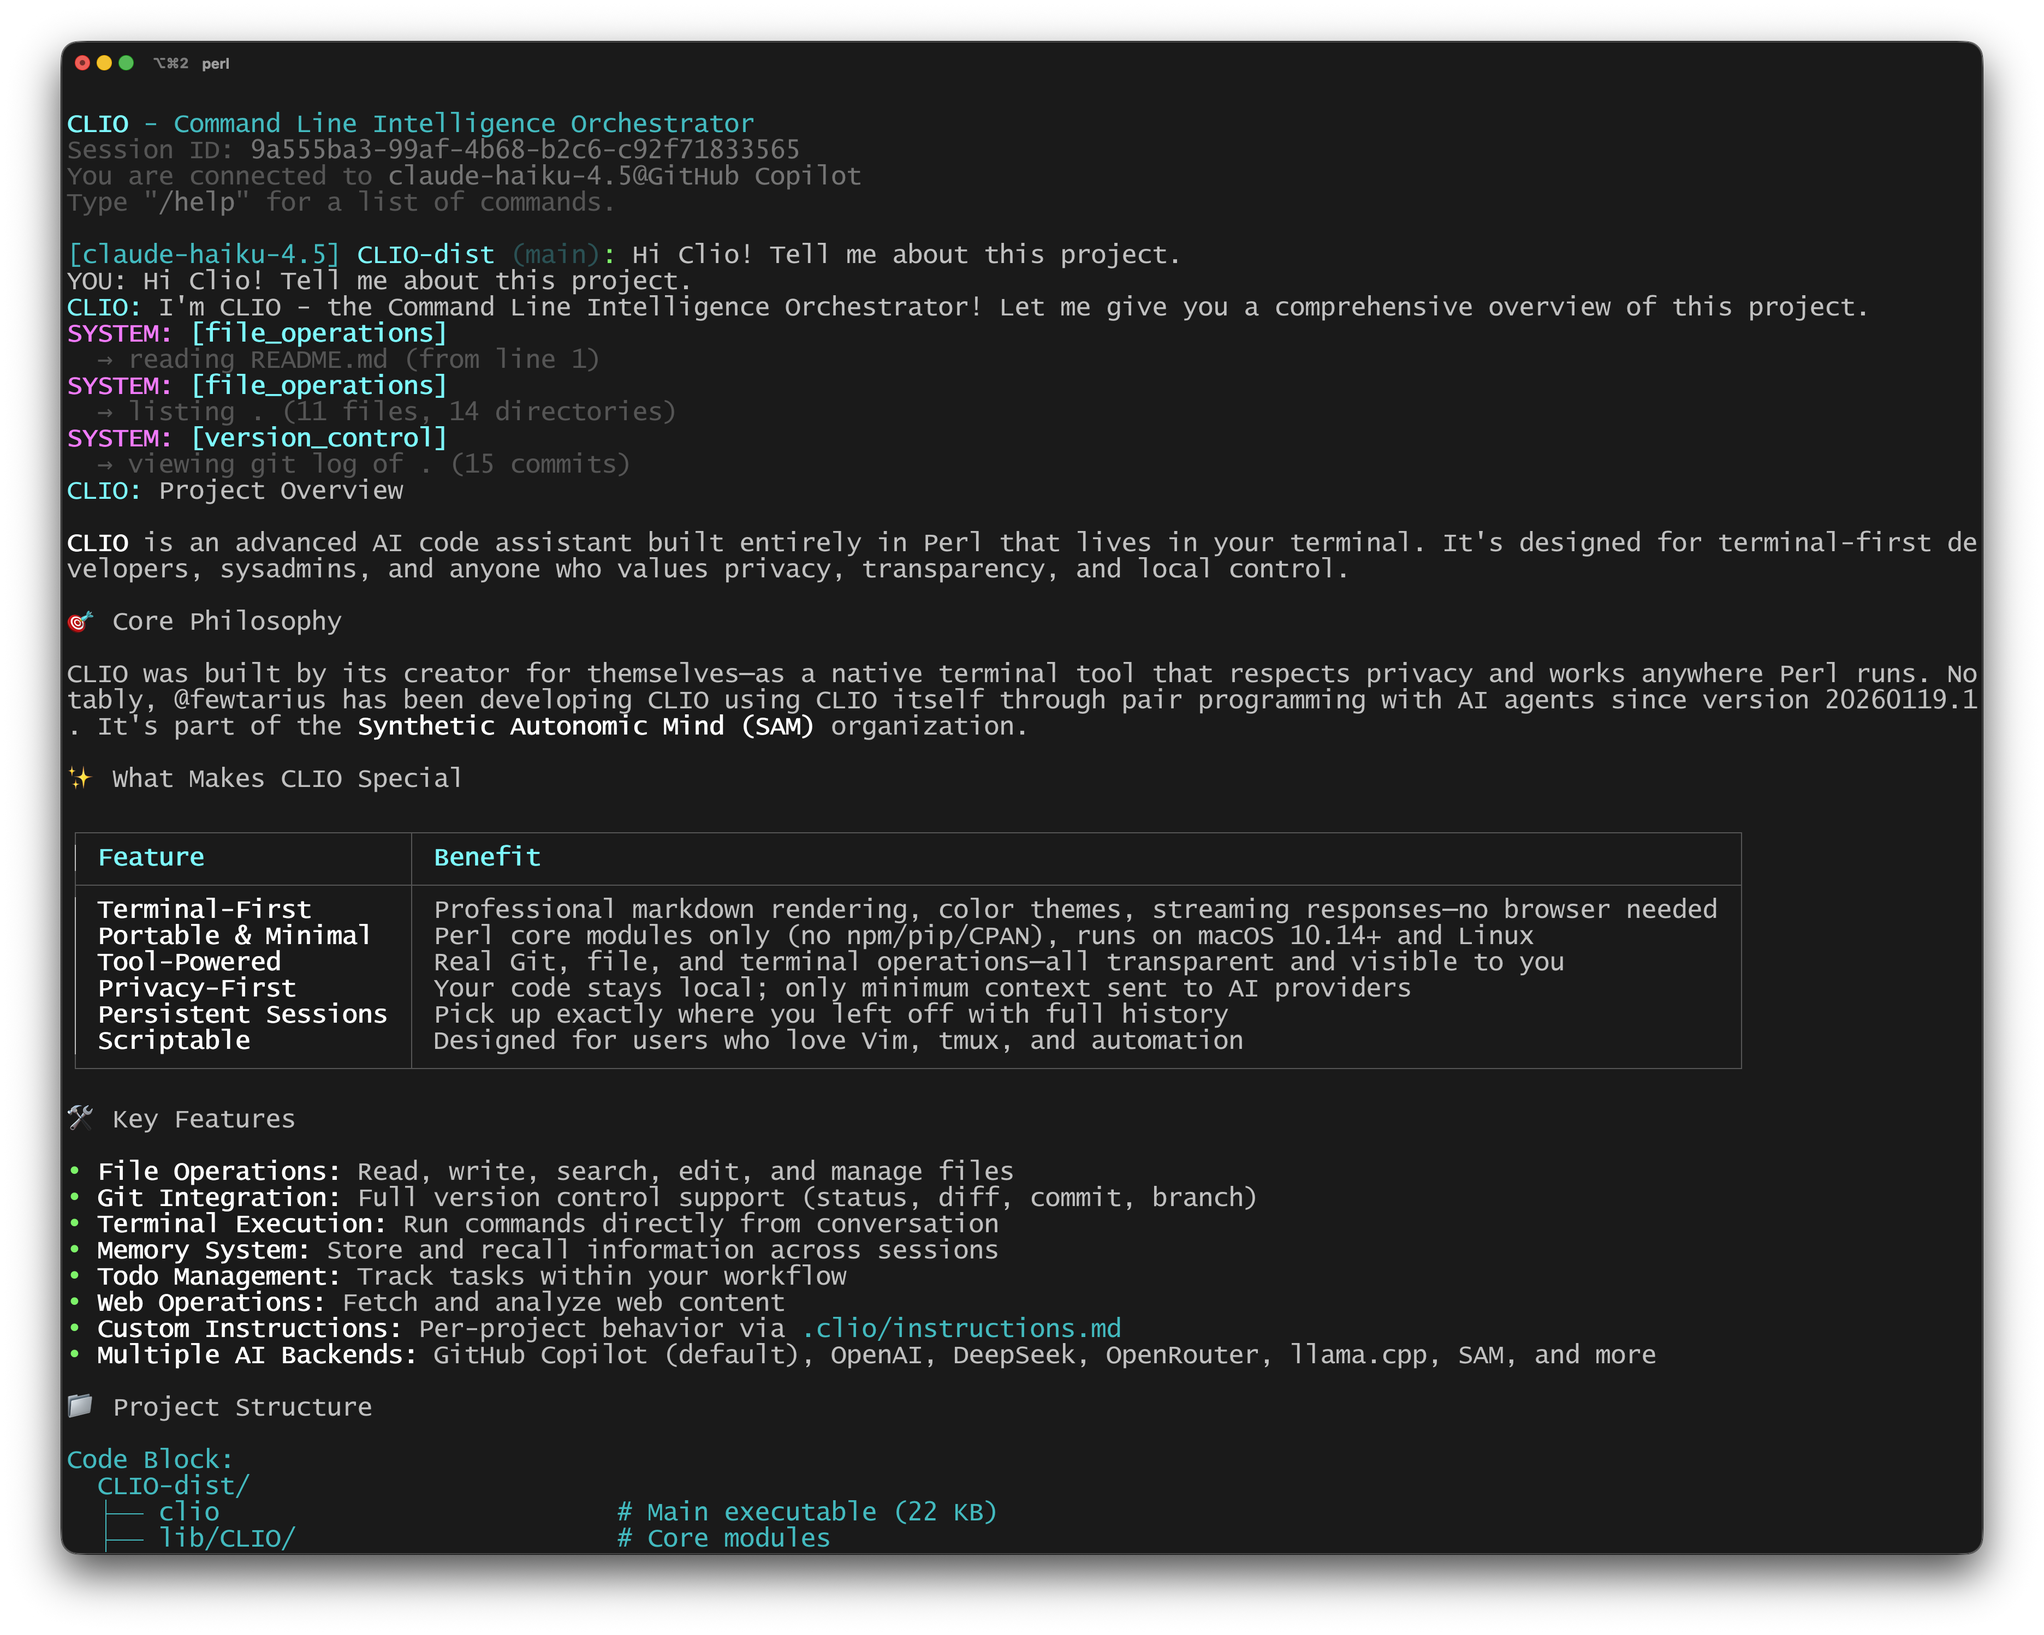
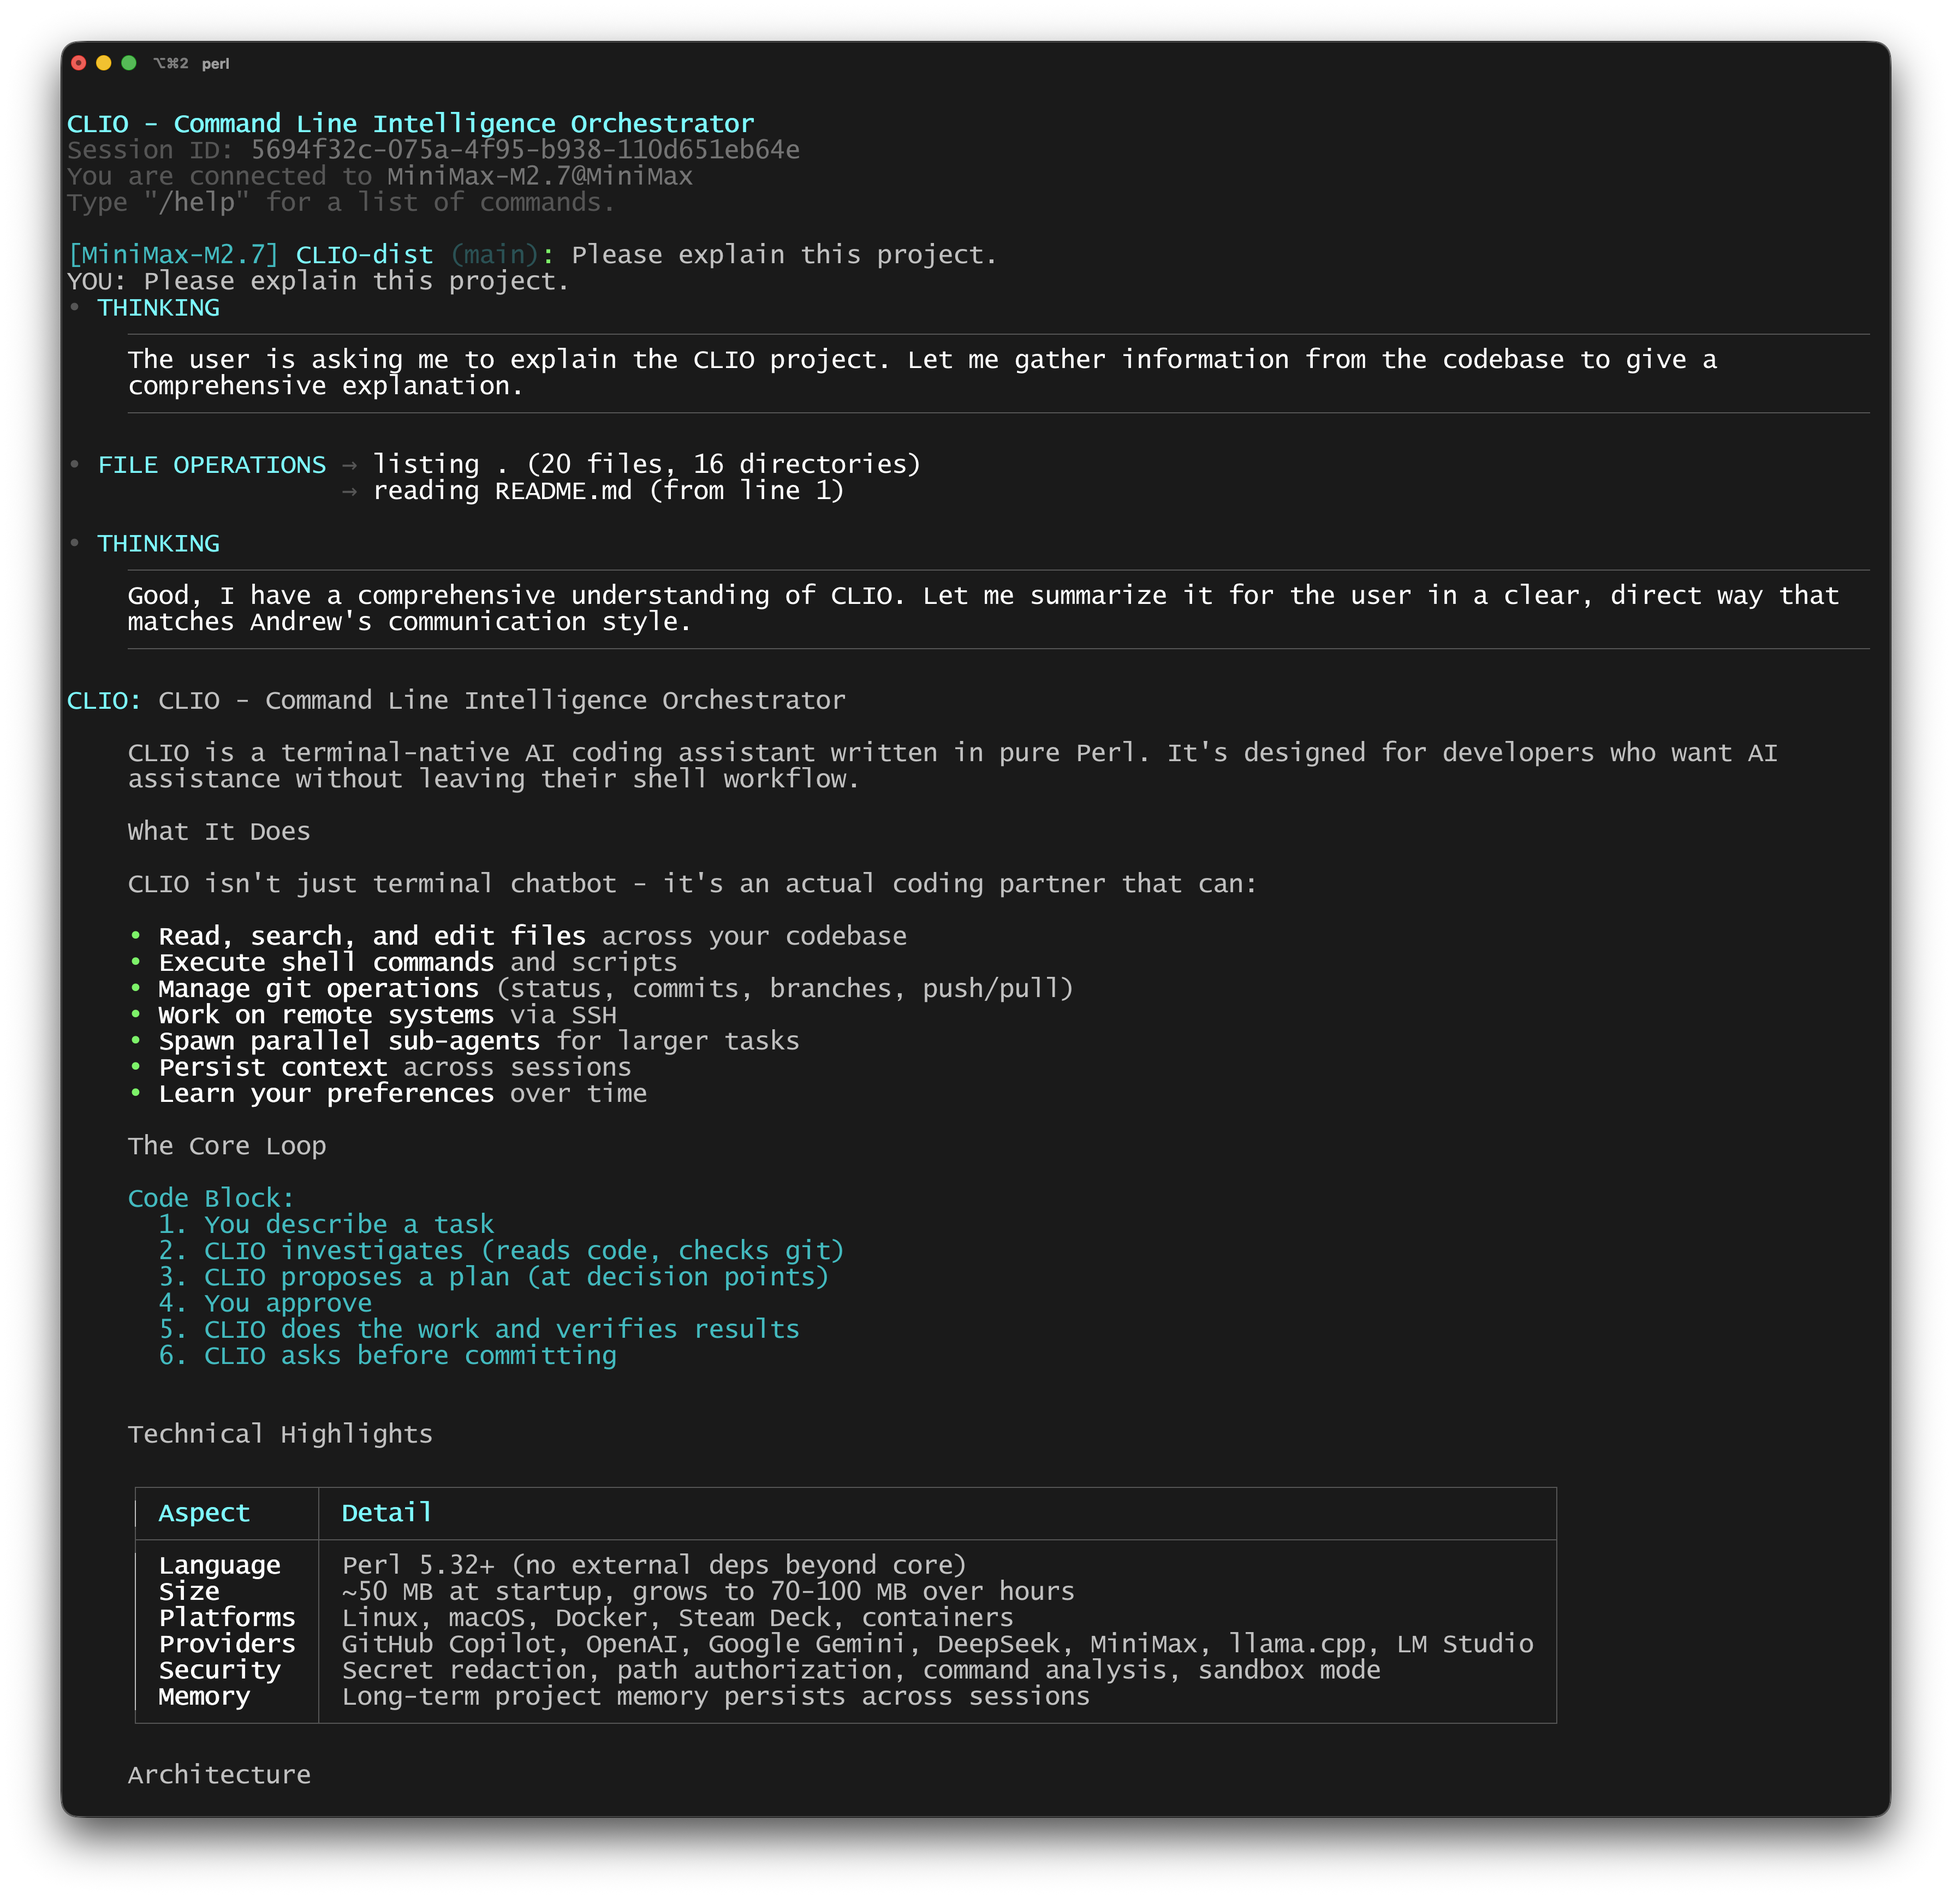
chore(docs): Update the screenshots.

diff --git a/README.md b/README.md
@@ -100,11 +100,11 @@ CLIO is part of the [Synthetic Autonomic Mind (SAM)](https://github.com/Syntheti
 <table>
   <tr>
     <td width="50%">
-      <h3>CLIO's Simple Interface</h3>
+      <h3>CLIO's Simple User Interface (1/2)</h3>
       <img src=".images/clio1.png"/>
     </td>
     <td width="50%">
-      <h3>Claude Haiku describing CLIO</h3>
+      <h3>CLIO's Simple User Interface (2/2)</h3>
       <img src=".images/clio2.png"/>
     </td>
   </tr>
